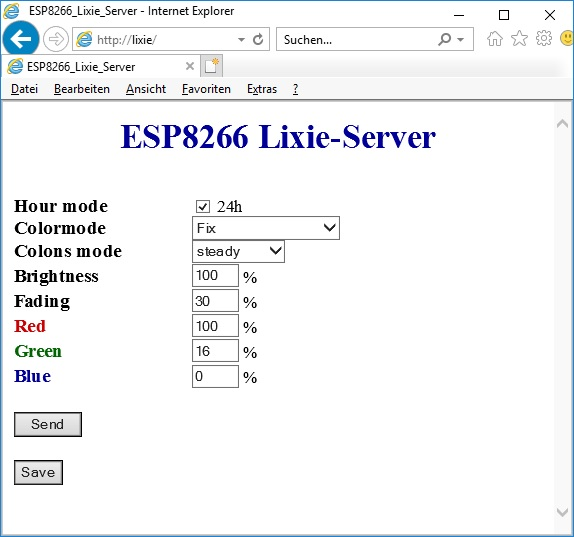
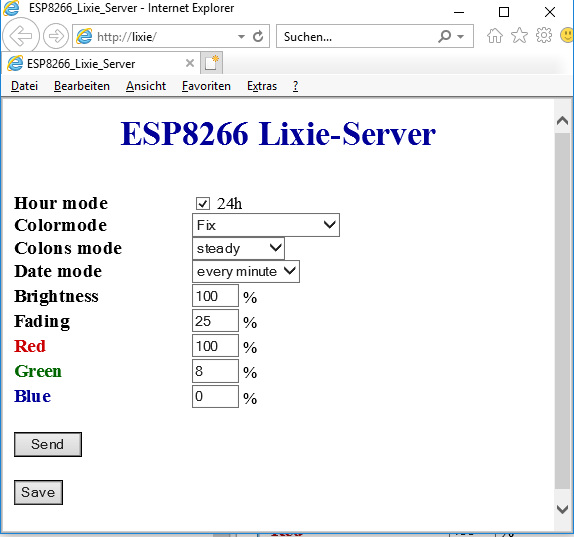
display of date added

Changed region(s): [[0.0, 0.0, 1.0, 1.0], [0.3258, 0.3575, 0.5923, 0.7449]]

diff --git a/README.md b/README.md
@@ -5,7 +5,7 @@
 Eine Uhr mit lasergeschnittenen Komponenten (außer LED, Kabel, Schrauben und Controller) basierend auf einem [ESP8266 NodeMCU](https://www.aliexpress.com/item/1PCS-ESP8266-NodeMCU-V3-Lua-WIFI-module-memory-32M-Flash-USB-serial-CH340G/32820380705.html) mit adressierbaren RGB-LED-Stripes
 Die 3D-Modelle für das Gehäuse sind auf thingiverse.com [Uhren-Teile](http://www.thingiverse.com/thing:3392585) und [ESP8266-Gehäuse](https://www.thingiverse.com/thing:3392585) verfügbar.
 
-Die Software ist noch in Entwicklung und soll z.B. noch um die Datumsanzeige und Zeitzoneneingabe erweitert werden.
+Die Software ist noch in Entwicklung und soll z.B. noch um die Zeitzoneneingabe erweitert werden.
 
 ## Hardware Setup
 
@@ -47,6 +47,7 @@ Das Projekt besteht nur aus einer einzigen "ino"-Datei, welche nach Einbindung d
 * [FastLED](https://github.com/FastLED/FastLED)
 * [NeoPixel](https://github.com/adafruit/Adafruit_NeoPixel)
 * [Ticker](https://github.com/esp8266/Arduino/tree/master/libraries/Ticker)
+* [OneButton](https://github.com/mathertel/OneButton)
 
 Um die korrekte Ortszeit aus den NTP-Daten berechnen zu können, müssen die sogenannten "DST-rules" in den Zeilen 79 und 81 im Quellfile entsprechend der Bibliotheksbeschreibung [Timezone](https://github.com/JChristensen/Timezone) angepaßt werden. 
 
@@ -82,6 +83,16 @@ Mit "n" wird das Verhalten der Doppelpunkte eingestellt. "n" kann dabei Werte vo
 - 2: die Doppelpunkte blinken im Sekundenrythmus
 - 3: im Sekundenrythmus wechseln sich oberer und unterer Punkt der Doppelpunkte ab
 - 4: vormittags blinken die unteren, nachmittags die oberen Punkte im Sekundenrythmus
+
+*Anzeigeart des Datums einstellen:*  
+`http://clockip?DMODE=n`
+
+Mit "n" wird das Verhalten der Doppelpunkte eingestellt. "n" kann dabei Werte von 0 bis 4 annehmen:
+	
+- 0: kein Datum anzeigen
+- 1: am Anfang jeder Minute das Datum für 4 Sekunden anzeigen 
+- 2: am Anfang jeder Stunde das Datum für 4 Sekunden anzeigen
+- 3: das Datum jetzt für 4 Sekunden anzeigen (ändert den aktuellen Modus nicht)
 
 *Gesamthelligkeit setzen (0...100%):*  
 `http://clockip?BRIGHT=nnn`
